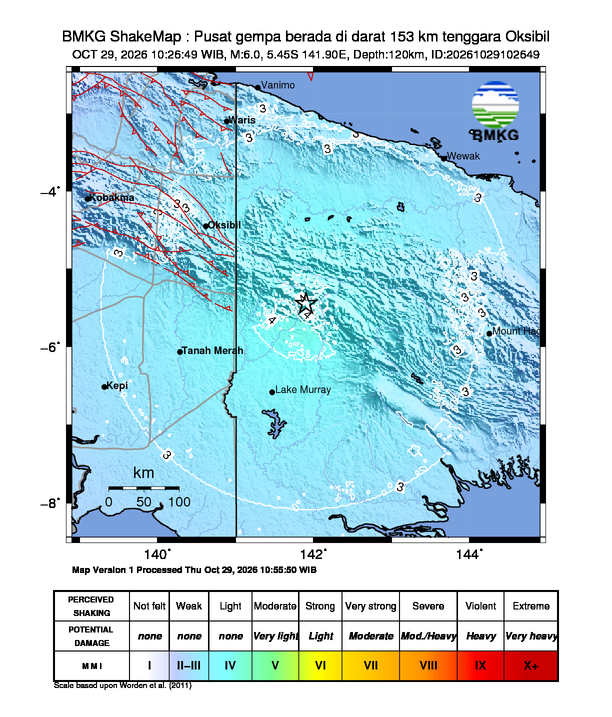
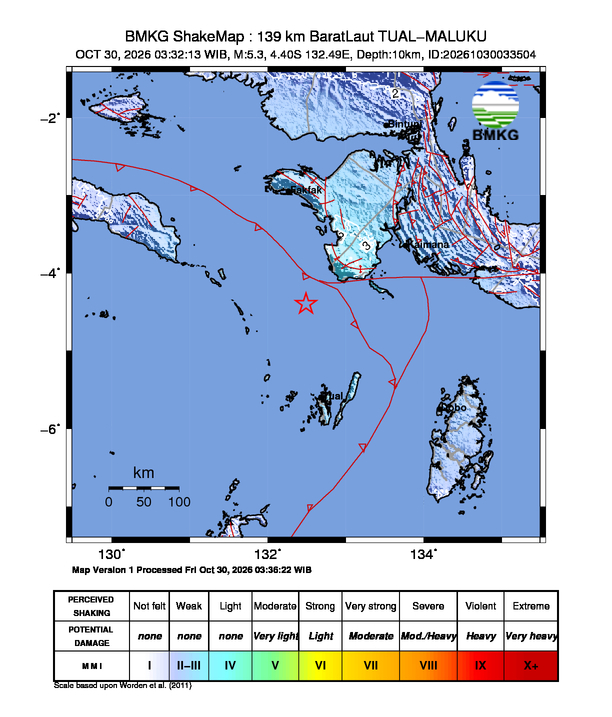
docs: update info gempa & README - 2026-10-30 03:41:26 WIB [skip ci]

diff --git a/README.md b/README.md
@@ -2,7 +2,7 @@
 
 > Monitor gempa bumi real-time untuk wilayah Indonesia. Data diambil otomatis dari **BMKG** setiap 5 menit oleh GitHub Actions, lalu ditampilkan lengkap di README ini beserta peta guncangannya (shakemap).
 
-🕒 **Update otomatis terakhir:** Kamis, 29 Oktober 2026 pukul 15.56.58
+🕒 **Update otomatis terakhir:** Jumat, 30 Oktober 2026 pukul 03.41.23
 
 ---
 
@@ -10,13 +10,12 @@
 
 | Parameter | Detail |
 | --- | --- |
-| 📊 **Magnitudo** | M 6 |
-| 📍 **Wilayah** | Pusat gempa berada di darat 153 km tenggara Oksibil |
-| 🕒 **Waktu** | 29 Okt 2026, 10:26:49 WIB |
-| 🧭 **Koordinat** | -5.45,141.90 |
-| 📏 **Kedalaman** | 120 km |
-| 🌊 **Potensi** | Gempa ini dirasakan untuk diteruskan pada masyarakat |
-| 📡 **Dirasakan** | III Boven Digoel, II Jayapura, II Merauke |
+| 📊 **Magnitudo** | M 5.3 |
+| 📍 **Wilayah** | 139 km BaratLaut TUAL-MALUKU |
+| 🕒 **Waktu** | 30 Okt 2026, 03:32:13 WIB |
+| 🧭 **Koordinat** | -4.40,132.49 |
+| 📏 **Kedalaman** | 10 km |
+| 🌊 **Potensi** | Tidak berpotensi tsunami |
 | 🔗 **Sumber** | [BMKG — InfoGempa Realtime](https://www.bmkg.go.id/gempabumi) |
 
 ### 🗺 Peta Guncangan (Shakemap)
@@ -29,6 +28,7 @@
 
 | Waktu | Magnitudo | Wilayah | Kedalaman | Potensi |
 | --- | --- | --- | --- | --- |
+| 30 Okt 2026 03:32:13 WIB | **M 5.3** | 139 km BaratLaut TUAL-MALUKU | 10 km | Tidak berpotensi tsunami |
 | 29 Okt 2026 10:26:49 WIB | **M 6** | Pusat gempa berada di darat 153 km tenggara Oksibil | 120 km | Gempa ini dirasakan untuk diteruskan pada masyarakat |
 | 29 Okt 2026 05:06:47 WIB | **M 6.4** | Pusat gempa berada di laut 60 km Baratlaut Larat-Kep.Tanimbar | 160 km | Gempa ini dirasakan untuk diteruskan pada masyarakat |
 | 28 Okt 2026 18:59:15 WIB | **M 3.4** | Pusat gempa berada di darat 10 km Utara Tanggamus | 4 km | Gempa ini dirasakan untuk diteruskan pada masyarakat |
@@ -43,7 +43,6 @@
 | 20 Okt 2026 23:29:35 WIB | **M 5.4** | Pusat gempa berada di laut 59 km barat daya Meulaboh | 74 km | Gempa ini dirasakan untuk diteruskan pada masyarakat |
 | 20 Okt 2026 18:28:11 WIB | **M 3.7** | Pusat gempa berada di laut 6 km Barat Laut Pulau Saringi | 15 km | Gempa ini dirasakan untuk diteruskan pada masyarakat |
 | 20 Okt 2026 16:56:38 WIB | **M 3.4** | Pusat gempa berada di darat 30km Barat Daya Kab. Kupang | 4 km | Gempa ini dirasakan untuk diteruskan pada masyarakat |
-| 19 Okt 2026 20:46:11 WIB | **M 4.2** | Pusat gempa berada di darat 26 km Timur Laut Kab. Gayo Lues | 5 km | Gempa ini dirasakan untuk diteruskan pada masyarakat |
 
 ---
 
